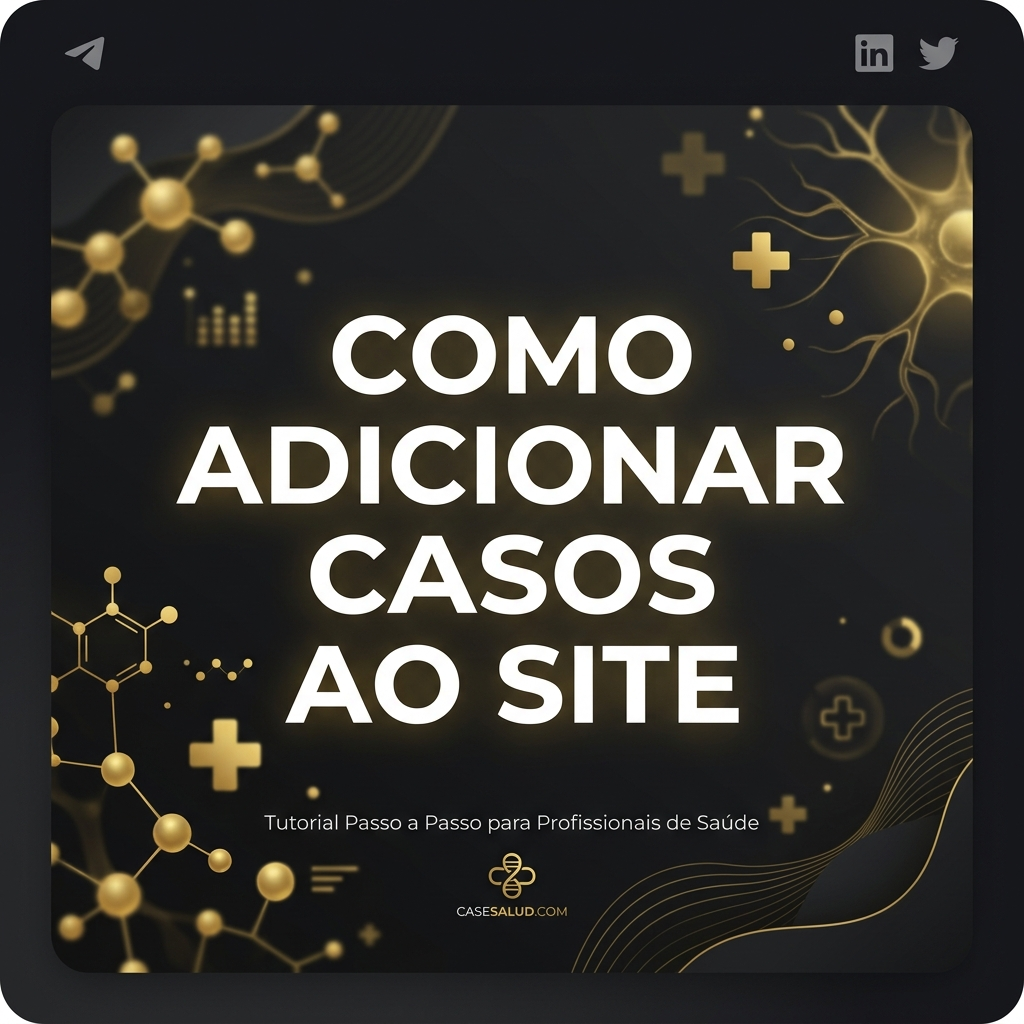
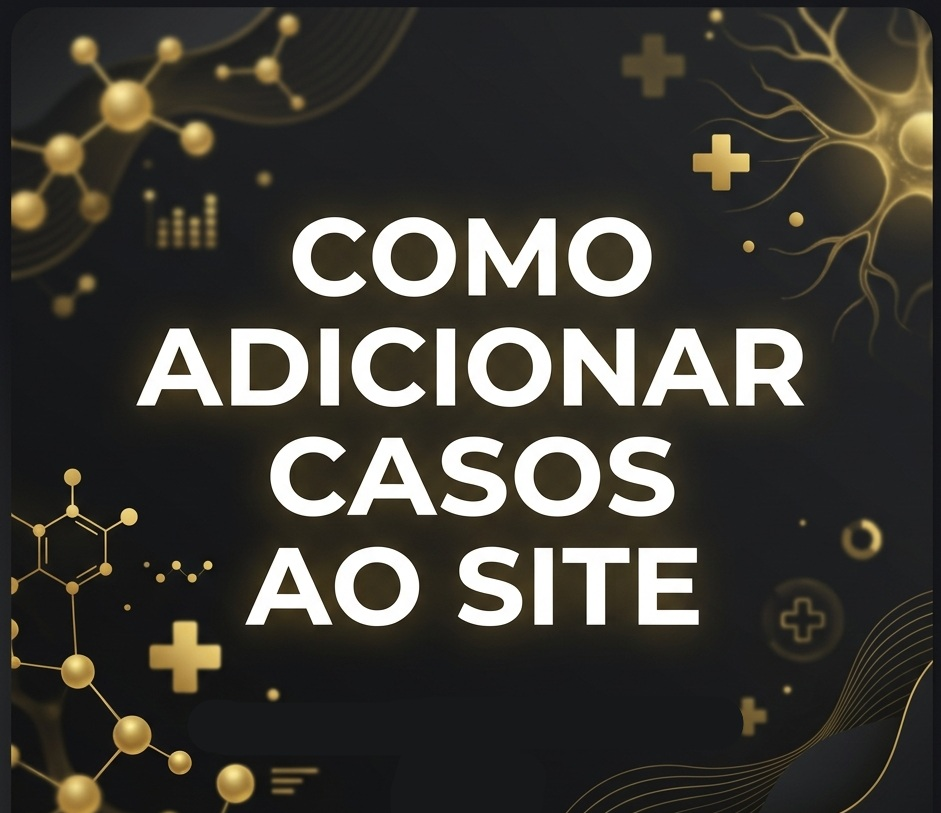
feat: user manual updates to tutorial preview texts and image

diff --git a/api/preview.js b/api/preview.js
@@ -90,8 +90,8 @@ export default async function handler(req, res) {
         }
       }
     } else if (type === 'tutorial') {
-      title = 'Tutorial CONRAD - Como publicar Casos e Artigos';
-      description = 'Aprenda passo a passo como submeter seus casos clínicos radiológicos e artigos na plataforma CONRAD da UFSJ.';
+      title = 'Tutorial CONRAD - Como publicar Casos';
+      description = 'Aprenda passo a passo como submeter seus casos clínicos radiológicos na plataforma da CONRAD.';
       imageUrl = 'https://conradufsj.app/tutorial-og.png';
     }
   } catch (error) {